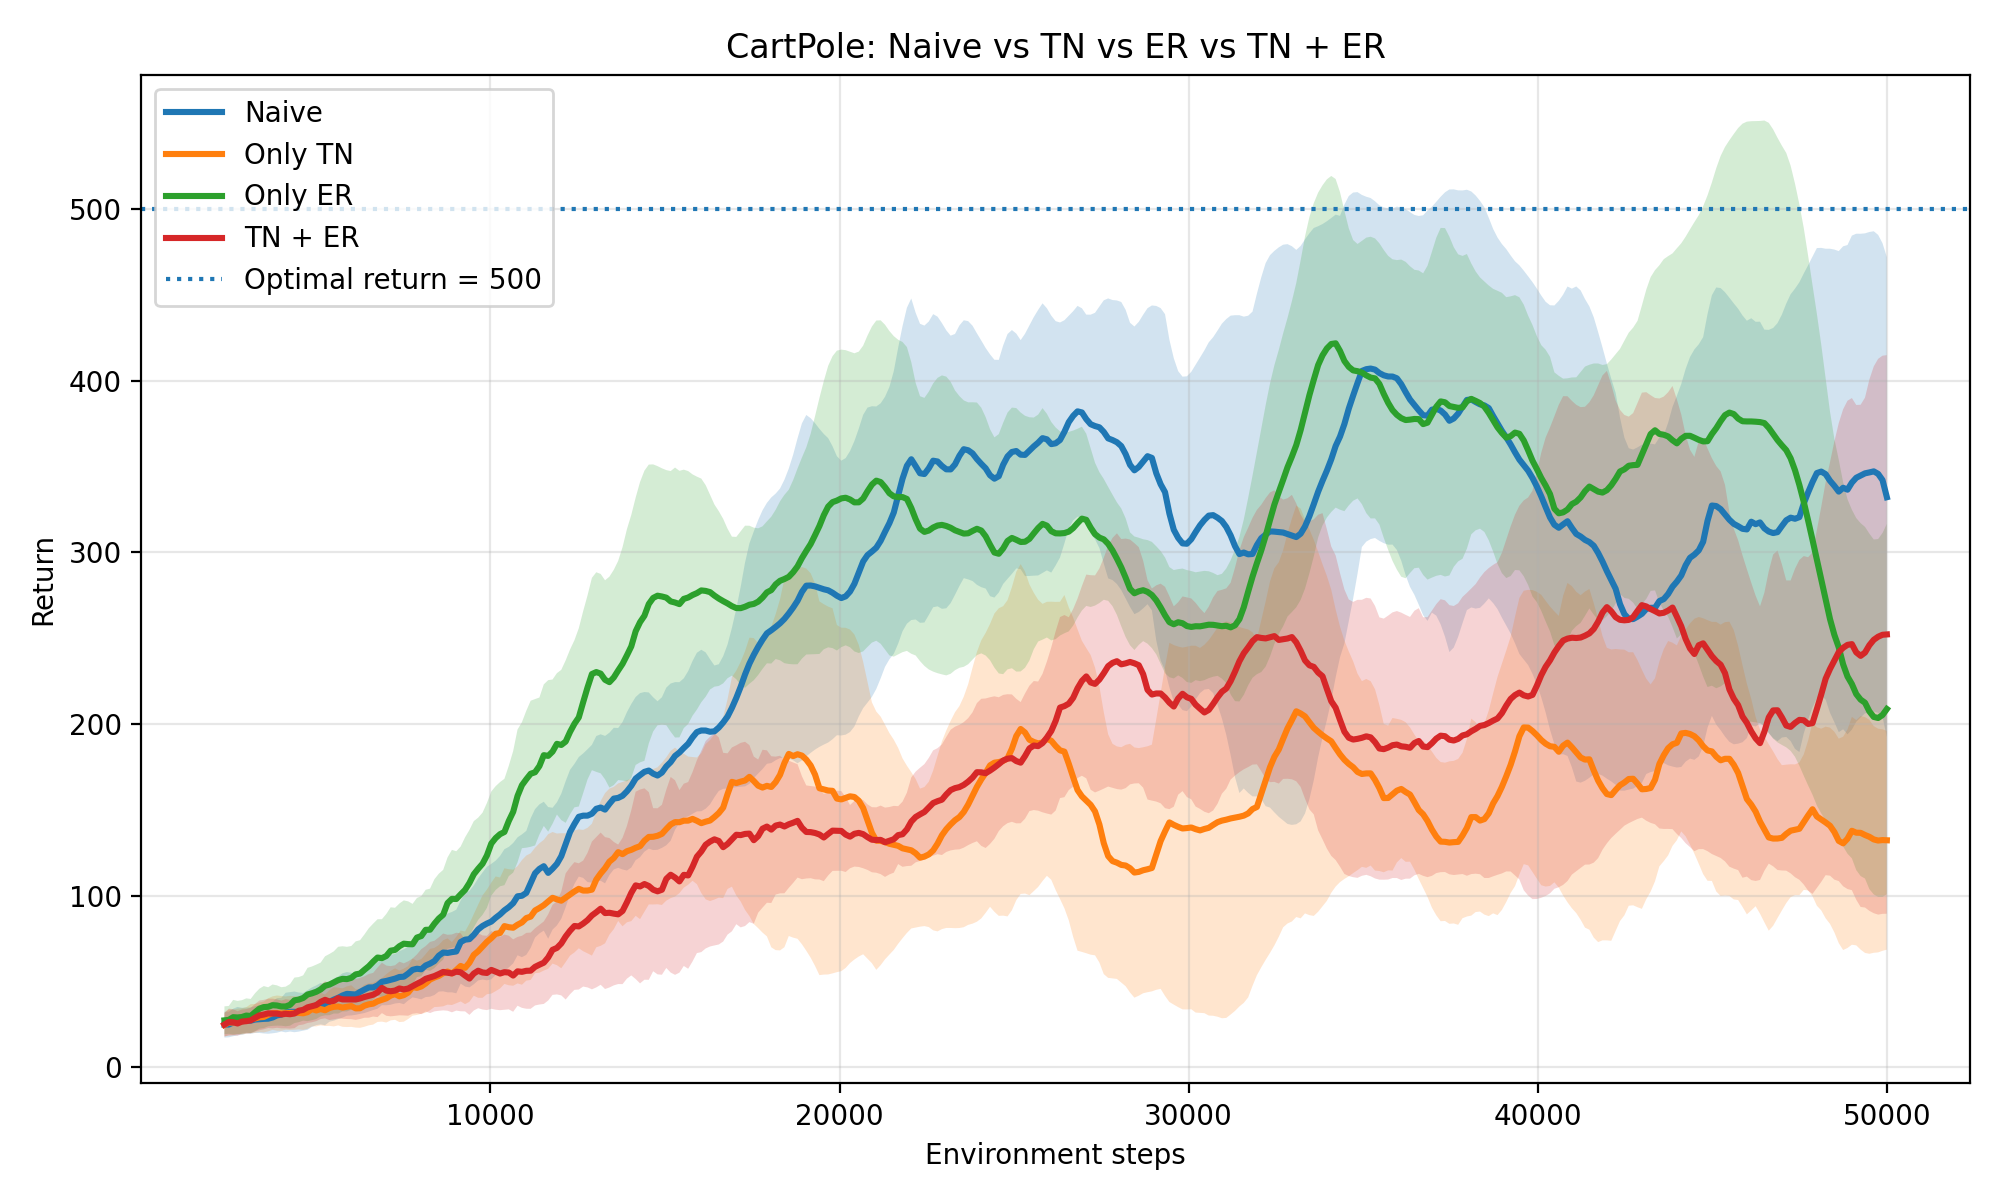
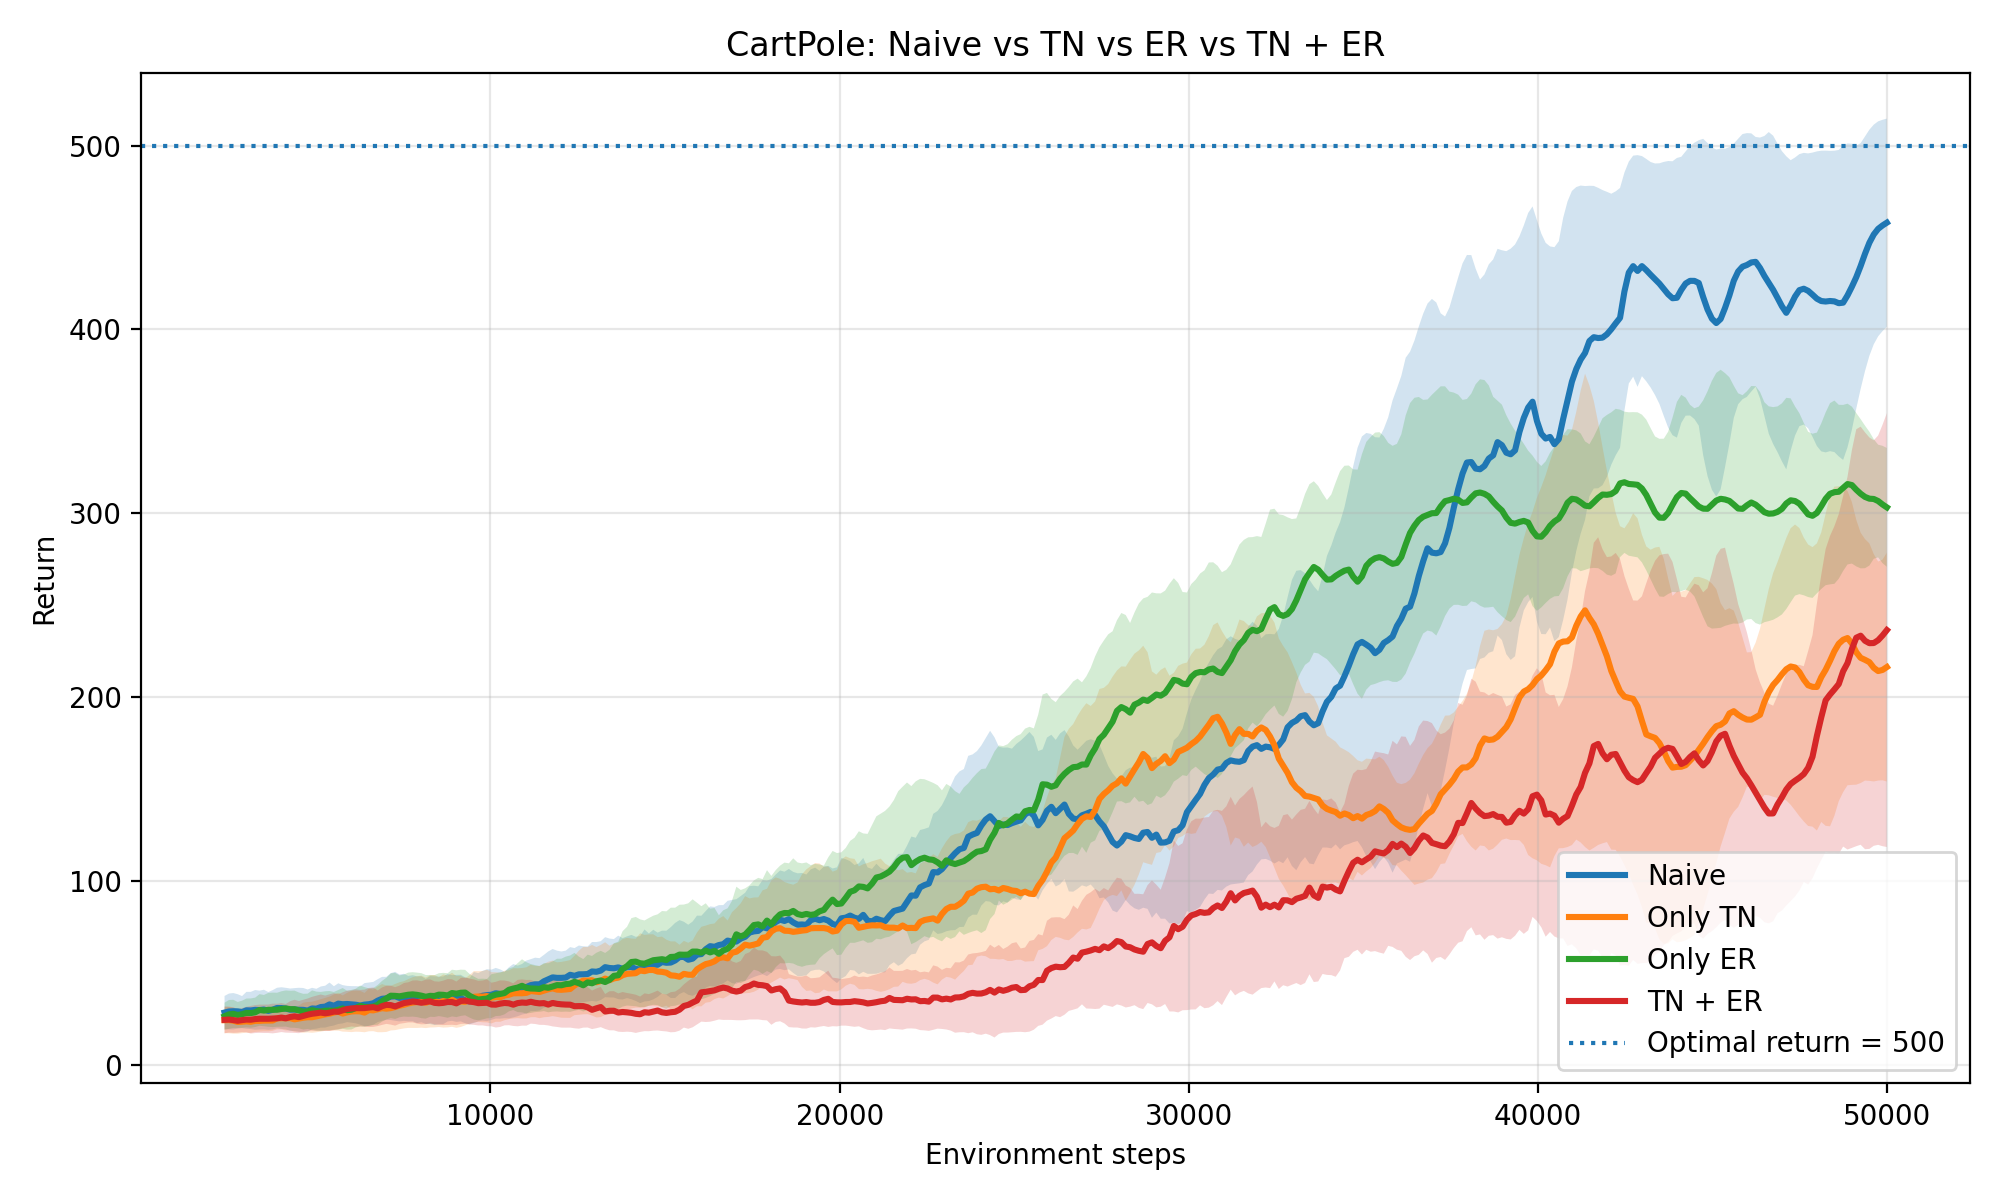
adjusted arhcitecture plot and the dqn comparison

diff --git a/ablation_study.py b/ablation_study.py
@@ -93,7 +93,7 @@ def run_ablation_study(base_cfg: Config, num_seeds=3, smoothing_window=20):
             "lr = 5e-3": replace(base_cfg, learning_rate=5e-3),
         },
         "network_architecture": {
-            "64": replace(base_cfg, hidden_sizes=(64,)),
+            "64, 64": replace(base_cfg, hidden_sizes=(64,)),
             "128, 128": replace(base_cfg, hidden_sizes=(128, 128)),
             "256, 256": replace(base_cfg, hidden_sizes=(256, 256)),
         },

diff --git a/compare_dqn_variants.py b/compare_dqn_variants.py
@@ -84,7 +84,7 @@ if __name__ == "__main__":
     cfg = Config(
         learning_rate=1e-3,
         hidden_sizes=(128, 128),
-        epsilon_decay_steps=20_000,
+        epsilon_decay_steps=50_000,
         total_env_steps=50_000,
         batch_size=64,
         replay_buffer_size=50_000,
